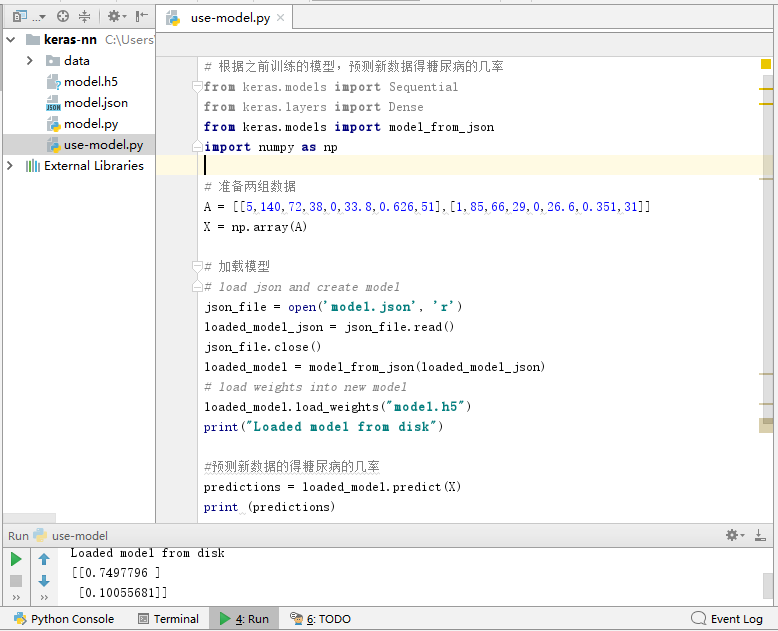
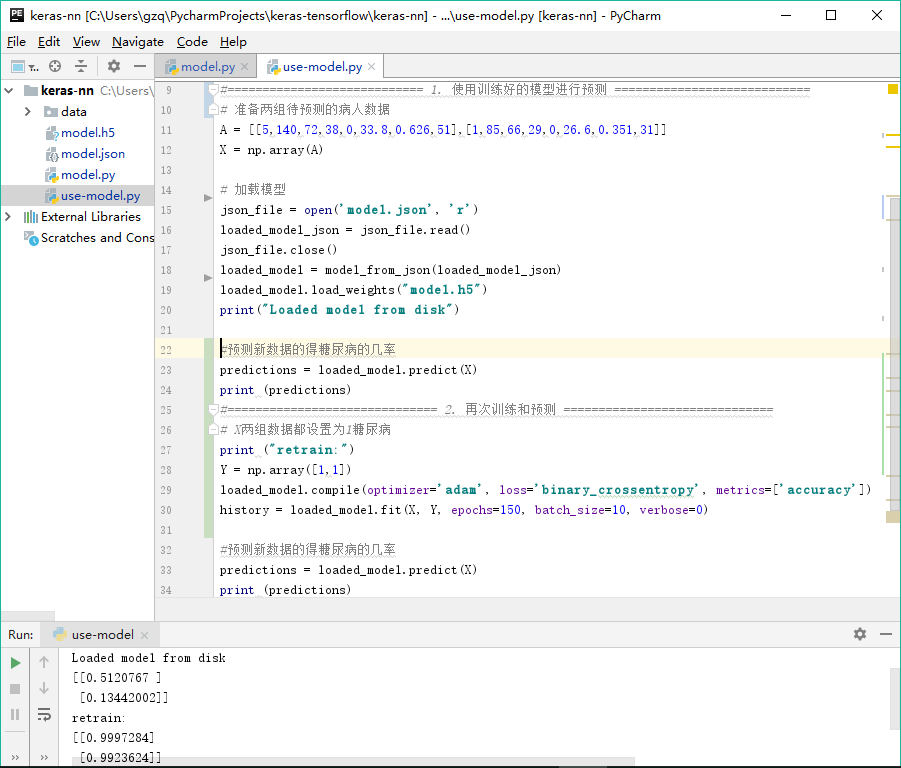
retrain

Changed region(s): [[0.0, 0.0, 1.0, 1.0], [0.1851, 0.3312, 0.2159, 0.3613]]

diff --git a/keras-nn/use-model.py b/keras-nn/use-model.py
@@ -1,25 +1,33 @@
 #!/usr/bin/python
 # -*- coding: utf-8 -*-
 
-# 根据之前训练的模型，预测新数据得糖尿病的几率
 from keras.models import Sequential
 from keras.layers import Dense
 from keras.models import model_from_json
 import numpy as np
 
-# 准备两组数据
+#============================ 1. 使用训练好的模型进行预测 ============================
+# 准备两组待预测的病人数据
 A = [[5,140,72,38,0,33.8,0.626,51],[1,85,66,29,0,26.6,0.351,31]]
 X = np.array(A)
 
 # 加载模型
-# load json and create model
 json_file = open('model.json', 'r')
 loaded_model_json = json_file.read()
 json_file.close()
 loaded_model = model_from_json(loaded_model_json)
-# load weights into new model
 loaded_model.load_weights("model.h5")
 print("Loaded model from disk")
+
+#预测新数据的得糖尿病的几率
+predictions = loaded_model.predict(X)
+print (predictions)
+#============================== 2. 再次训练和预测 ==============================
+# X两组数据都设置为1糖尿病
+print ("retrain:")
+Y = np.array([1,1])
+loaded_model.compile(optimizer='adam', loss='binary_crossentropy', metrics=['accuracy'])
+history = loaded_model.fit(X, Y, epochs=150, batch_size=10, verbose=0)
 
 #预测新数据的得糖尿病的几率
 predictions = loaded_model.predict(X)
